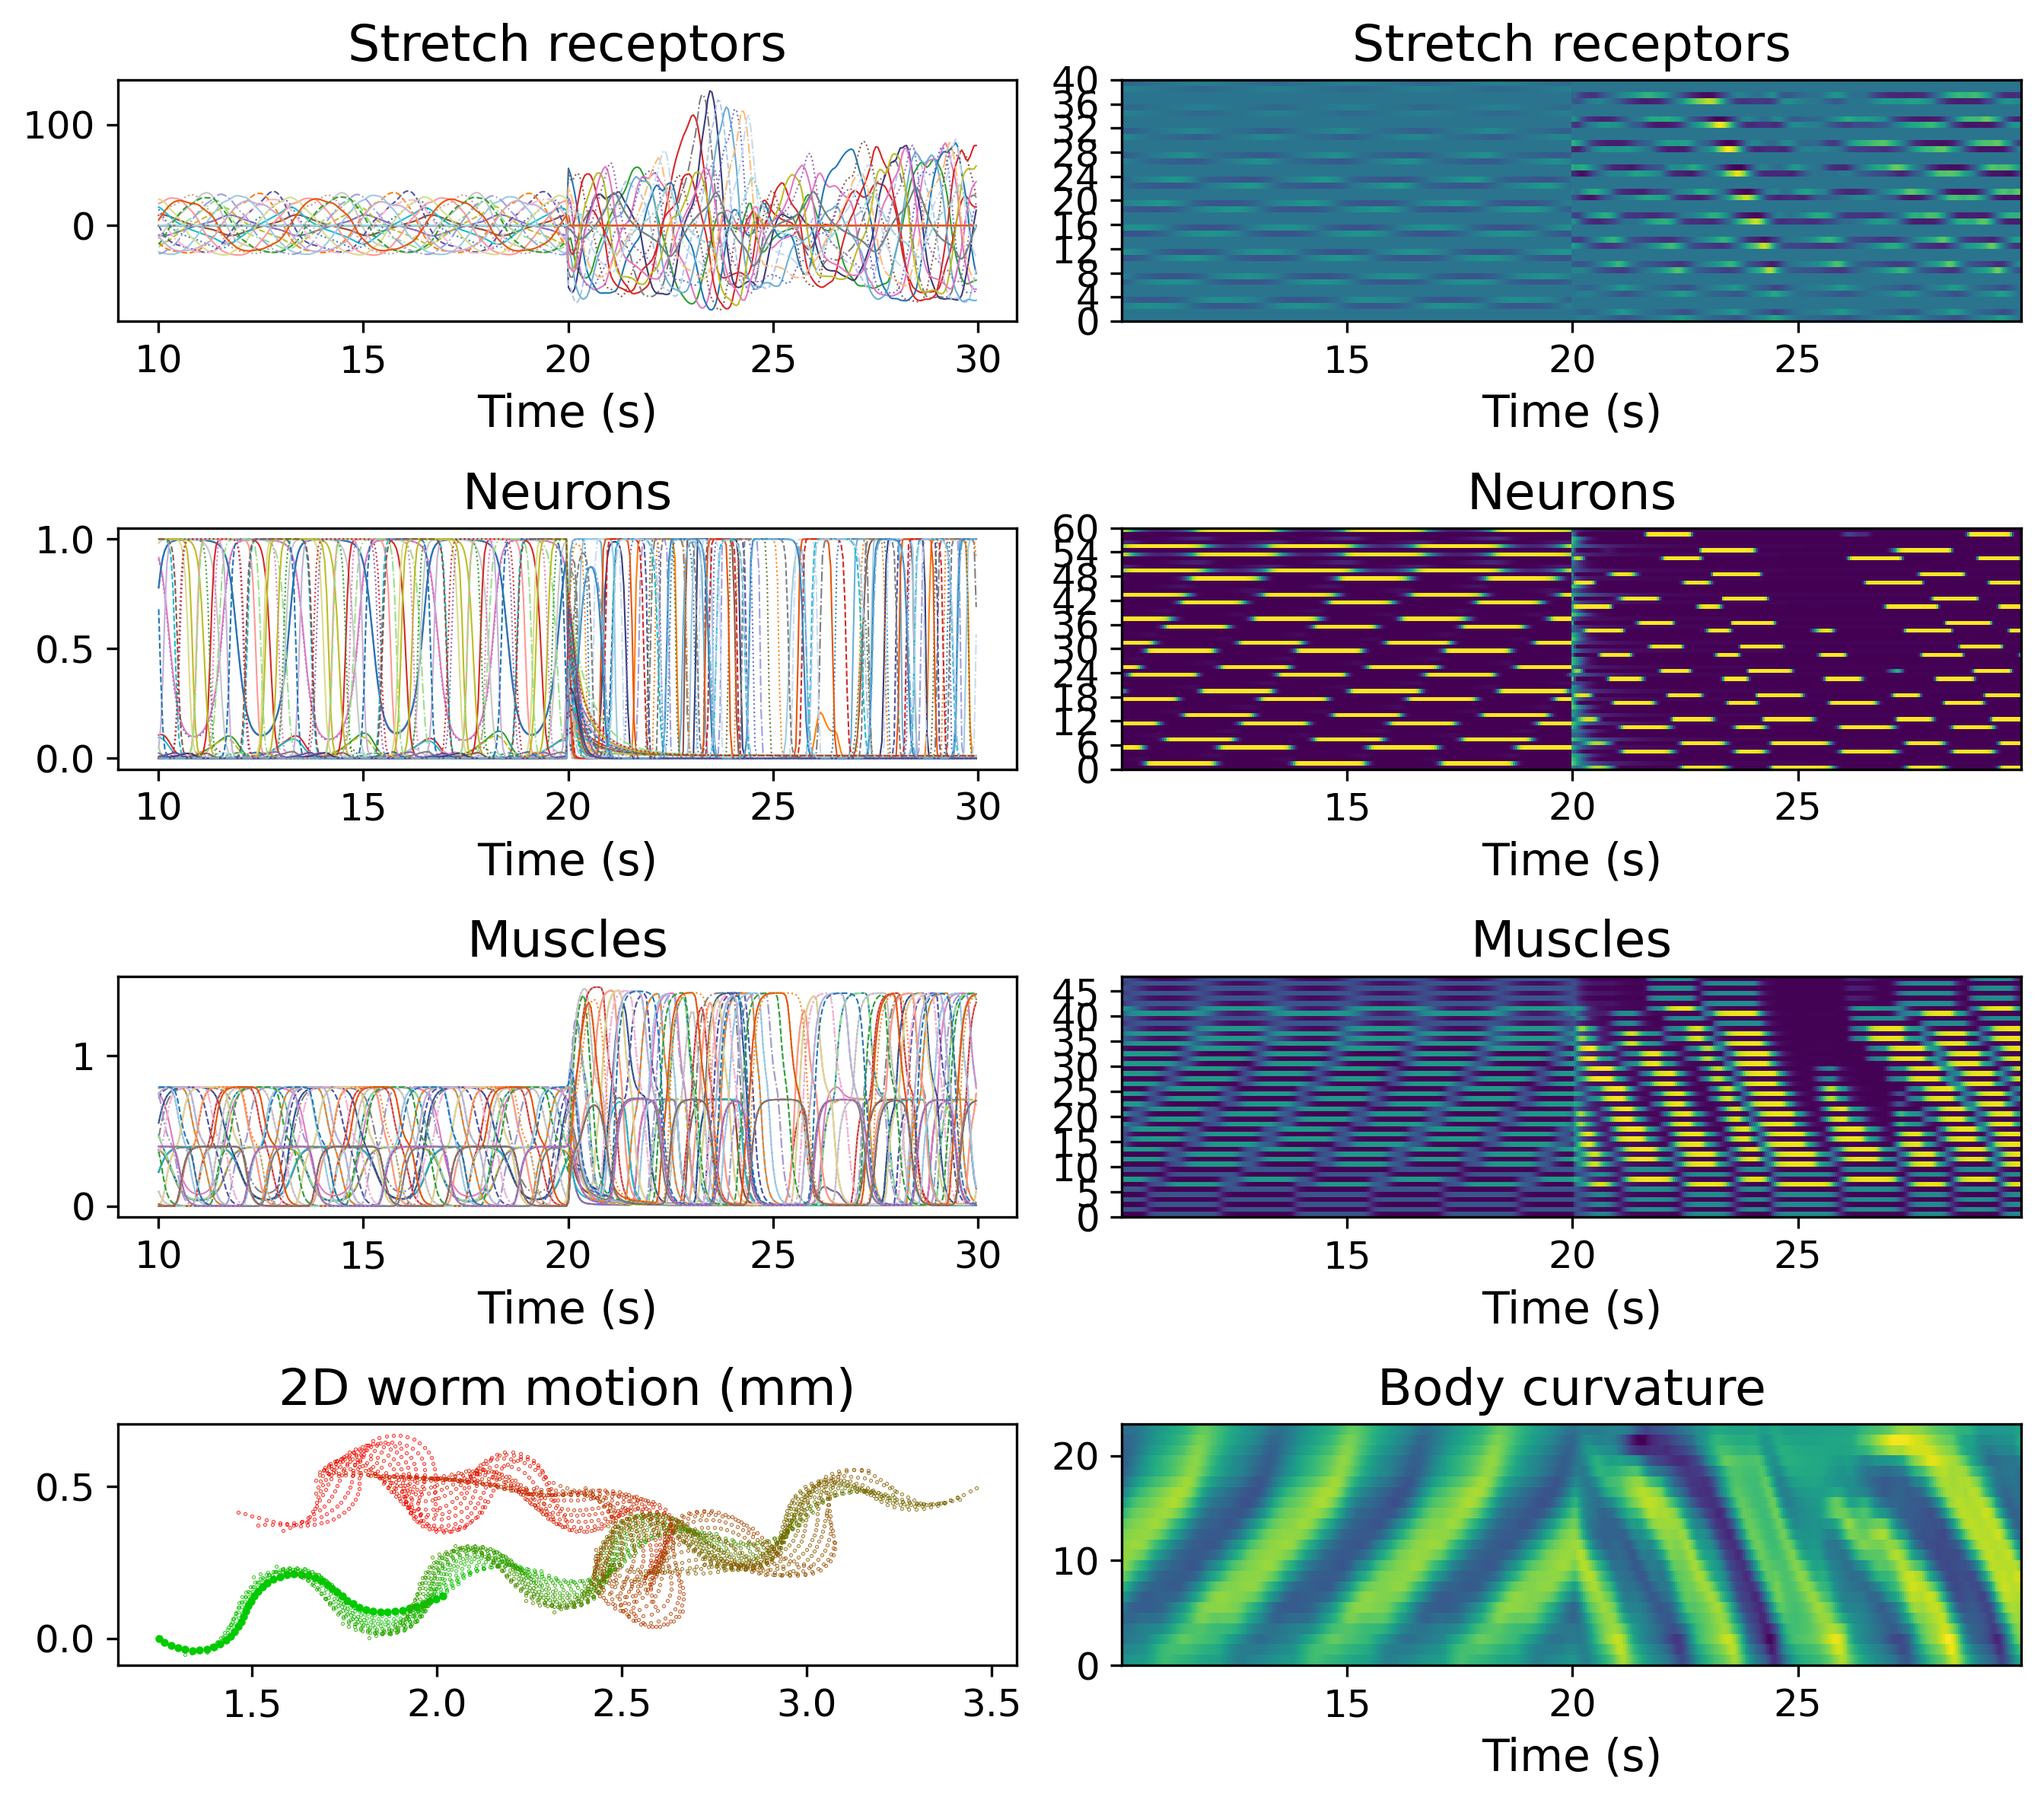
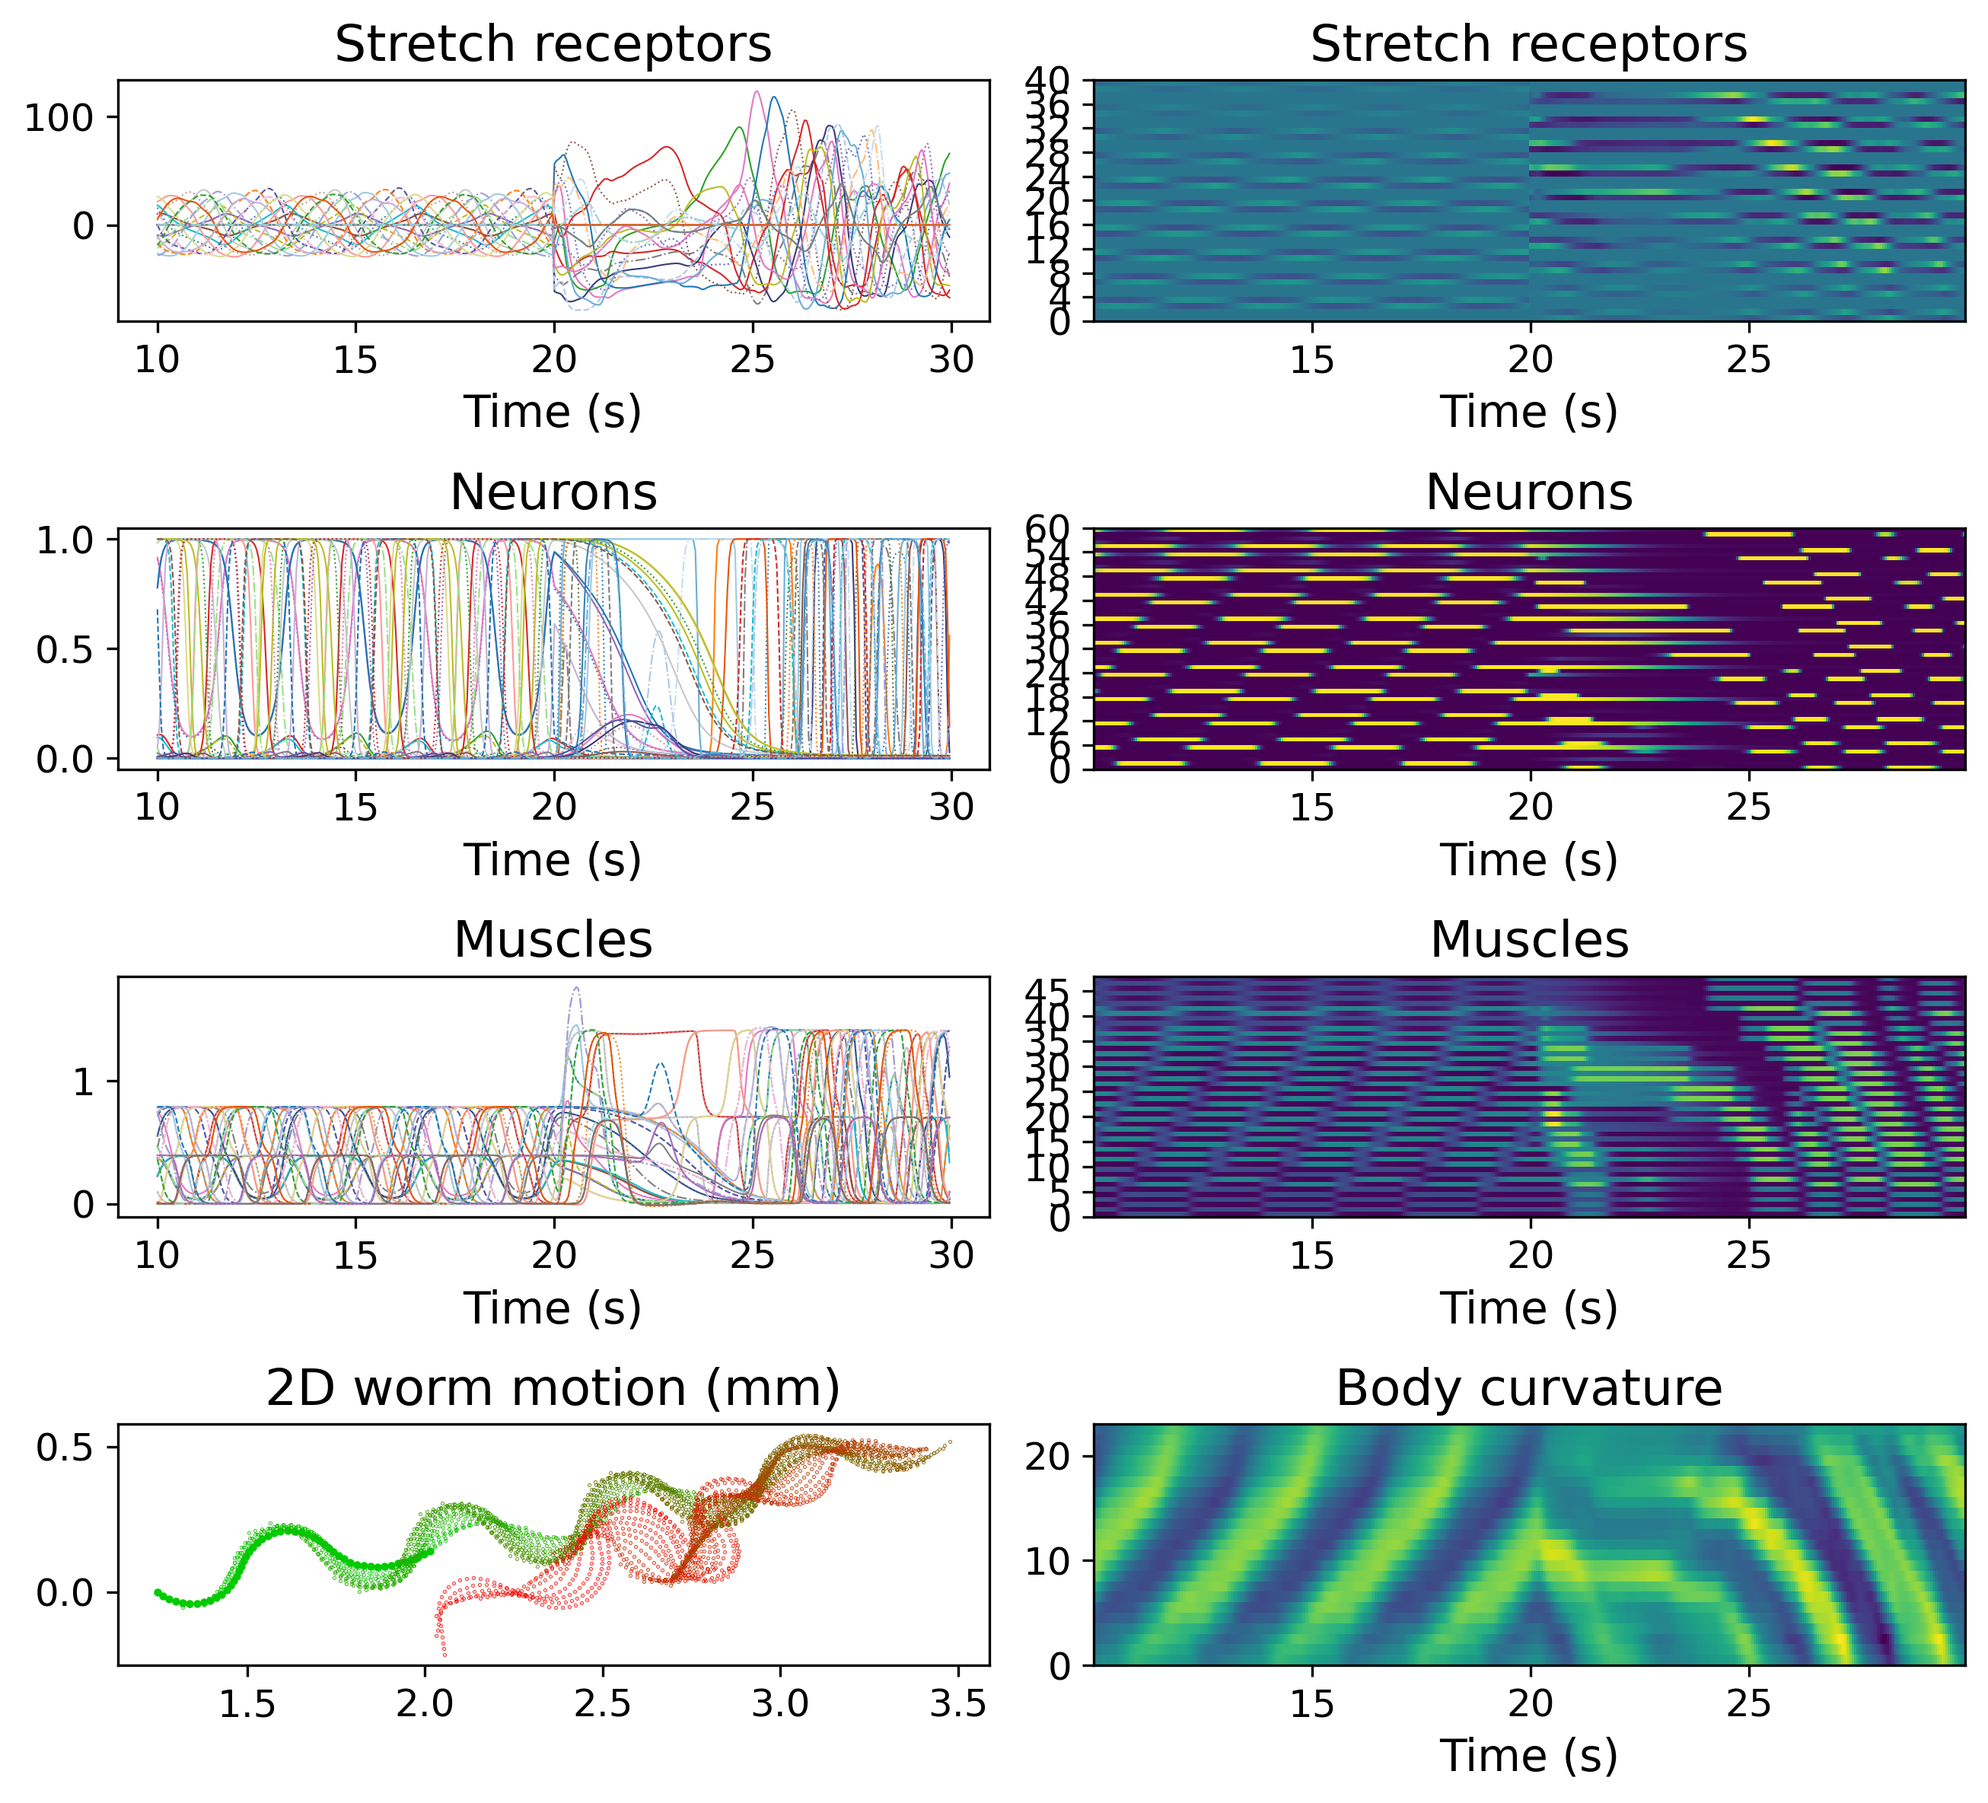
removed randomize, changed tests

diff --git a/Worm2D/main_osc.cpp b/Worm2D/main_osc.cpp
@@ -431,7 +431,7 @@ int main (int argc, const char* argv[])
     bool doforward = forwardfirst;
     for (int mode=0;mode<2;mode++){
     if (mode==1) {doforward = !forwardfirst; 
-        w2->randomizeNS(rs);
+        //w2->randomizeNS(rs);
         s1.sp.Transient = 0;
         }
 
